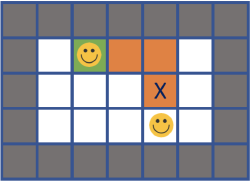
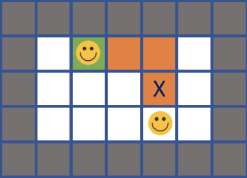
added: video previews rm: hovering effect

Changed region(s): [[0.0, 0.0, 1.0, 1.0]]

diff --git a/css/index.css b/css/index.css
@@ -508,18 +508,13 @@ body:not(.particles-bg) #particles {
   box-shadow: 0 10px 28px rgba(0, 0, 0, 0.45);
 }
 
-.project > img {
-  width: 100%;
+.project > img,
+.project > video {
+  width: calc(100% + 40px);
+  margin: -20px -20px 12px -20px;
   height: 200px;
   object-fit: cover;
-  border-radius: 12px;
-  margin-bottom: 12px;
-  transition: transform 0.5s ease, object-fit 0.5s ease;
-}
-
-.project > img:hover {
-  object-fit: contain;
-  transform: scale(1.1);
+  border-radius: 16px 16px 0 0;
 }
 
 .project-icon {
@@ -626,7 +621,7 @@ body:not(.particles-bg) #particles {
 
 .header-container {
   display: flex;
-  align-items: center;
+  align-items: flex-start;
   justify-content: space-between;
 }
 
@@ -755,7 +750,8 @@ body:not(.particles-bg) #particles {
   display: block;
 }
 
-.featured-images img {
+.featured-images img,
+.featured-images video {
   width: 100%;
   height: auto;
   border-radius: 12px;
@@ -764,7 +760,8 @@ body:not(.particles-bg) #particles {
   transition: opacity 0.2s ease;
 }
 
-.featured-images a:hover img {
+.featured-images a:hover img,
+.featured-images a:hover video {
   opacity: 0.88;
 }
 
@@ -773,6 +770,14 @@ body:not(.particles-bg) #particles {
   flex-direction: column;
   justify-content: center;
   width: 100%;
+}
+
+#collabula-project.featured-project {
+  align-items: flex-start;
+}
+
+#collabula-project .project-content {
+  justify-content: flex-start;
 }
 
 @media (max-width: 900px) {

diff --git a/index.html b/index.html
@@ -107,10 +107,6 @@
                                 I'm the solo founder of <strong>Collabula</strong>, a real-time collaborative LaTeX editor with AI-assisted writing and CRDT-based co-editing — a full SaaS product built end-to-end with Next.js, TypeScript, Supabase, and Stripe. Through this project, I've learned that engineering decisions create meaningful impact for users, whether through performance, intuitive design, or thoughtful architecture.<br><br>
                                 I thrive in environments that value learning, collaboration, and ownership. Completing my MSc in Computer Science &amp; Engineering at Instituto Superior Técnico (graduating 2026), I'm actively seeking software engineering internships and new grad opportunities with teams who care about innovation, clarity, and long-term quality.
                         </span>
-                        <!--
-                        <div class="cv">
-                            <a href="files/resume.pdf" download="gv-resume.pdf"><button>Download <span class="colors">Resume</span></button></a>
-                            </div>-->
                         </div>
                     </div>
                     <div class="about-certs-col">
@@ -246,13 +242,13 @@
         <div id="portfolio" class="section" style="display:none;">
             <div class="portfolio-header"> <span class="color"> My </span> Portfolio</div>
             <div class="project-container">
-                <div class="project project-highlight featured-project">
+                <div id="collabula-project" class="project project-highlight featured-project">
                     <div class="featured-images">
                         <a href="https://www.getcollabula.com/" target="_blank">
-                            <img src="images/collabula-hero.png" alt="Collabula Landing Page">
+                            <video src="images/Collabula-home.mp4" autoplay loop muted playsinline aria-label="Collabula Landing Page"></video>
                         </a>
                         <a href="https://www.getcollabula.com/" target="_blank">
-                            <img src="images/editor-preview.png" alt="Collabula Editor">
+                            <video src="images/Collabula-preview.mp4" autoplay loop muted playsinline aria-label="Collabula Editor"></video>
                         </a>
                     </div>
                     <div class="project-content">
@@ -316,7 +312,7 @@
                 </div>
 
                 <div class="project">
-                    <img src="images/space-game.png" alt="Space-shooter">
+                    <img src="images/space-game.png" alt="Space-shooter" style="object-fit: contain; background: rgba(0, 0, 0, 0.3);">
                     <h2>Game Design: Roguelike Space-shooter</h2>
                     <div class="tech-stack">
                       <span class="tech-badge" title="C#"><i class="devicon-csharp-plain"></i> C#</span>
@@ -442,7 +438,7 @@
                 </div>
 
                 <div class="project">
-                    <img src="images/last-page.png" alt="Last Page">
+                    <video src="images/LastPage-demo.mp4" autoplay loop muted playsinline aria-label="Last Page" style="object-fit: contain; background: rgba(0, 0, 0, 0.3);"></video>
                     <div class="header-container">
                         <h2>2D Action Platformer</h2>
                         <a href="https://gveiga.itch.io/project-last-page" target="_blank">